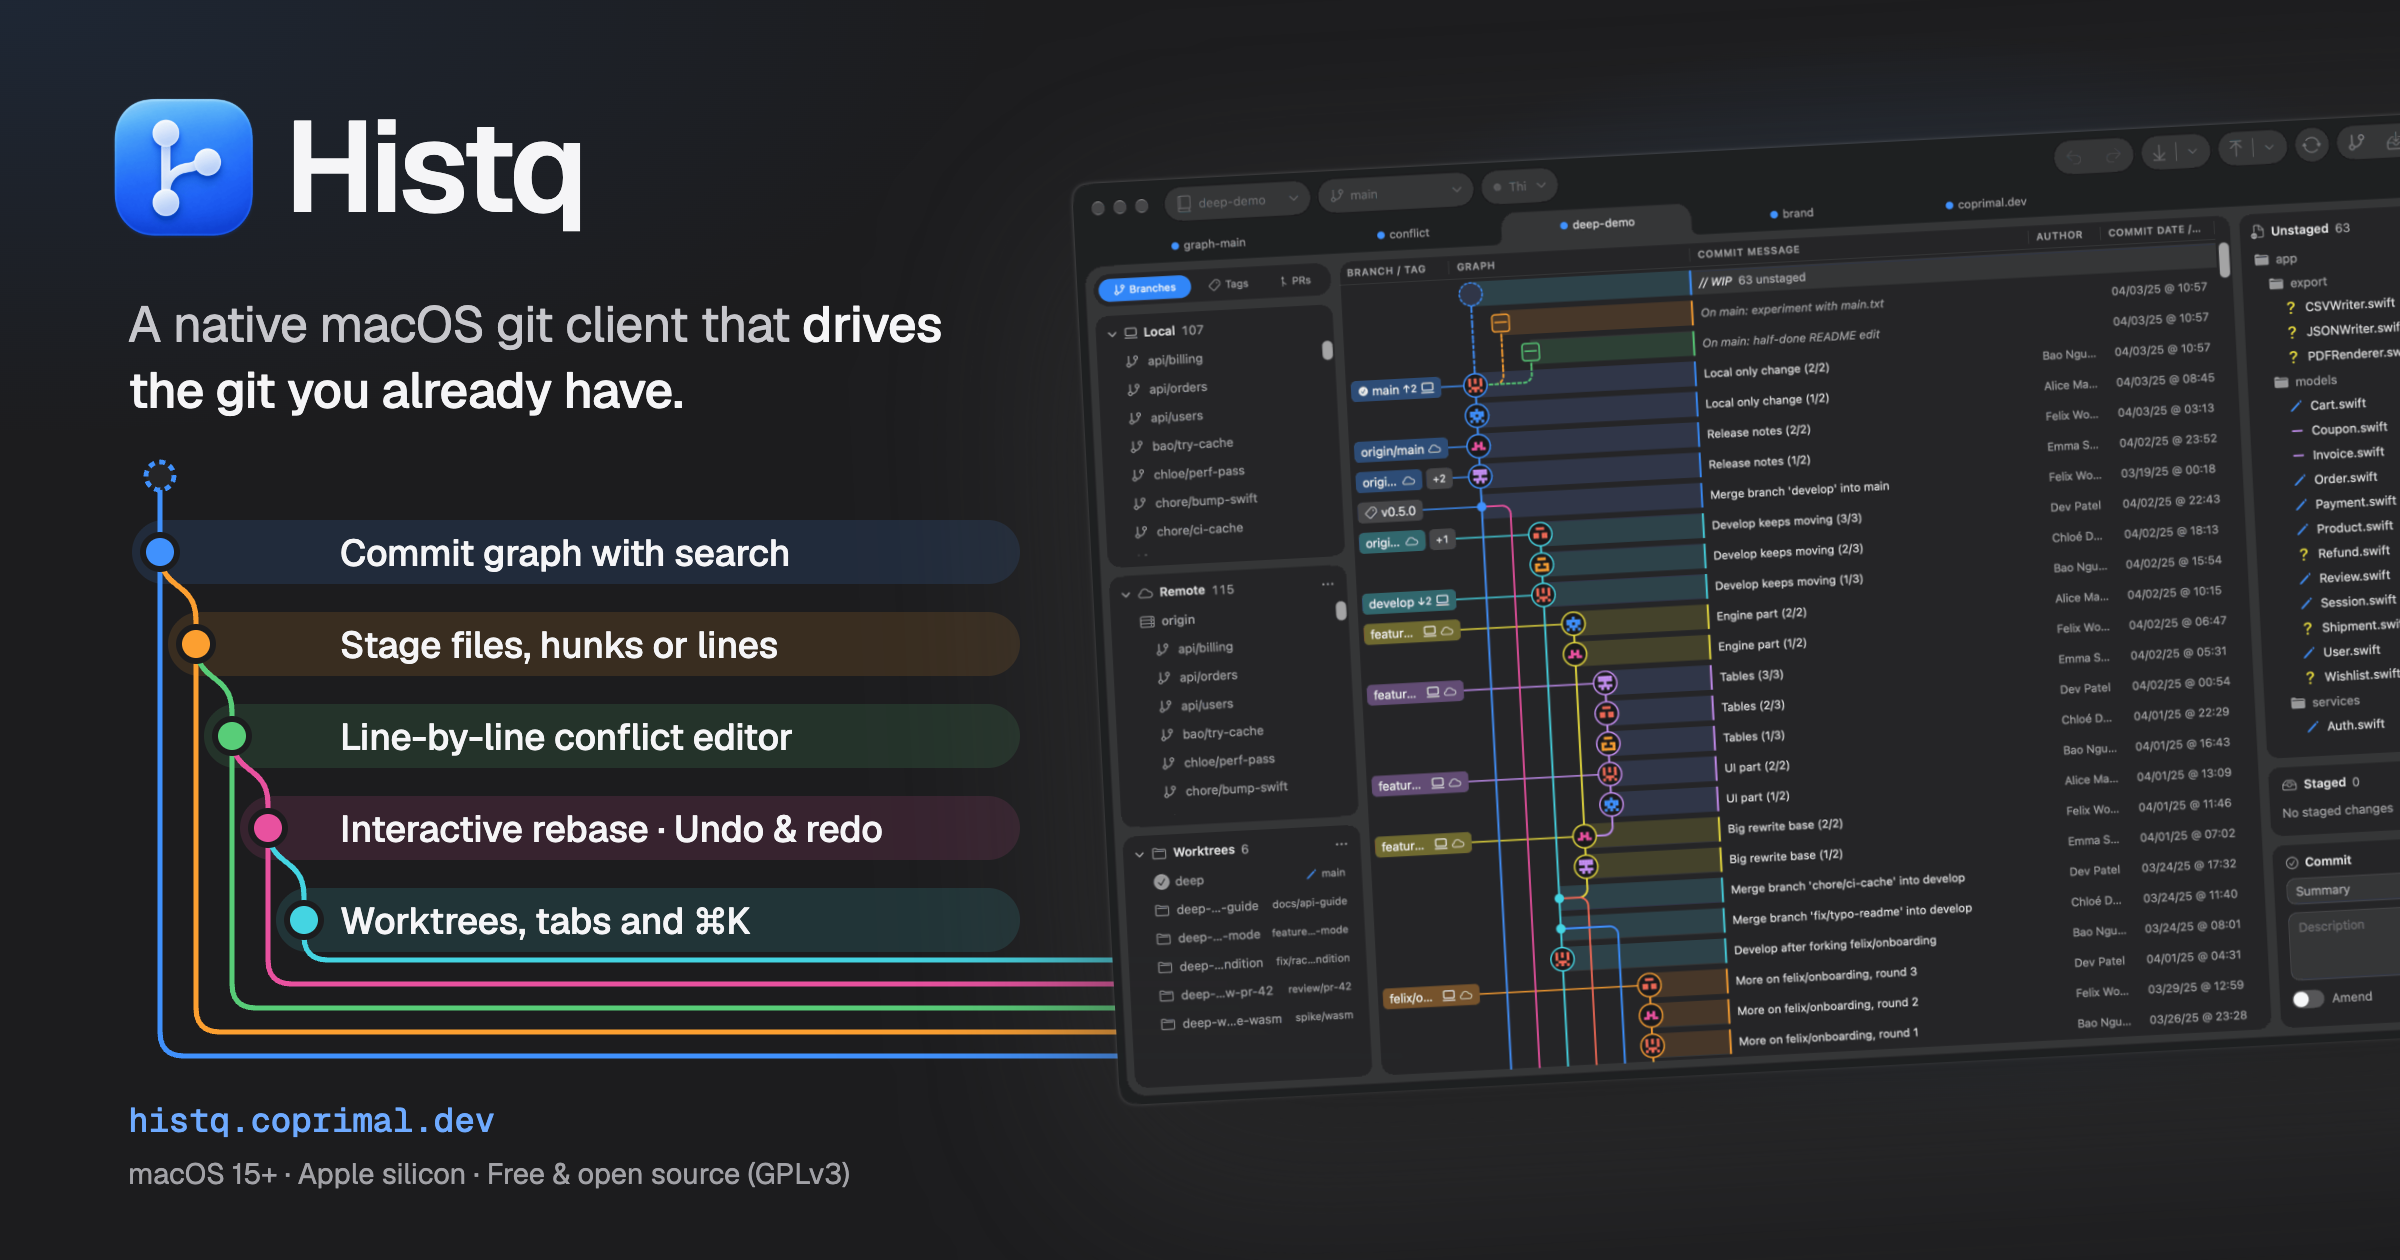
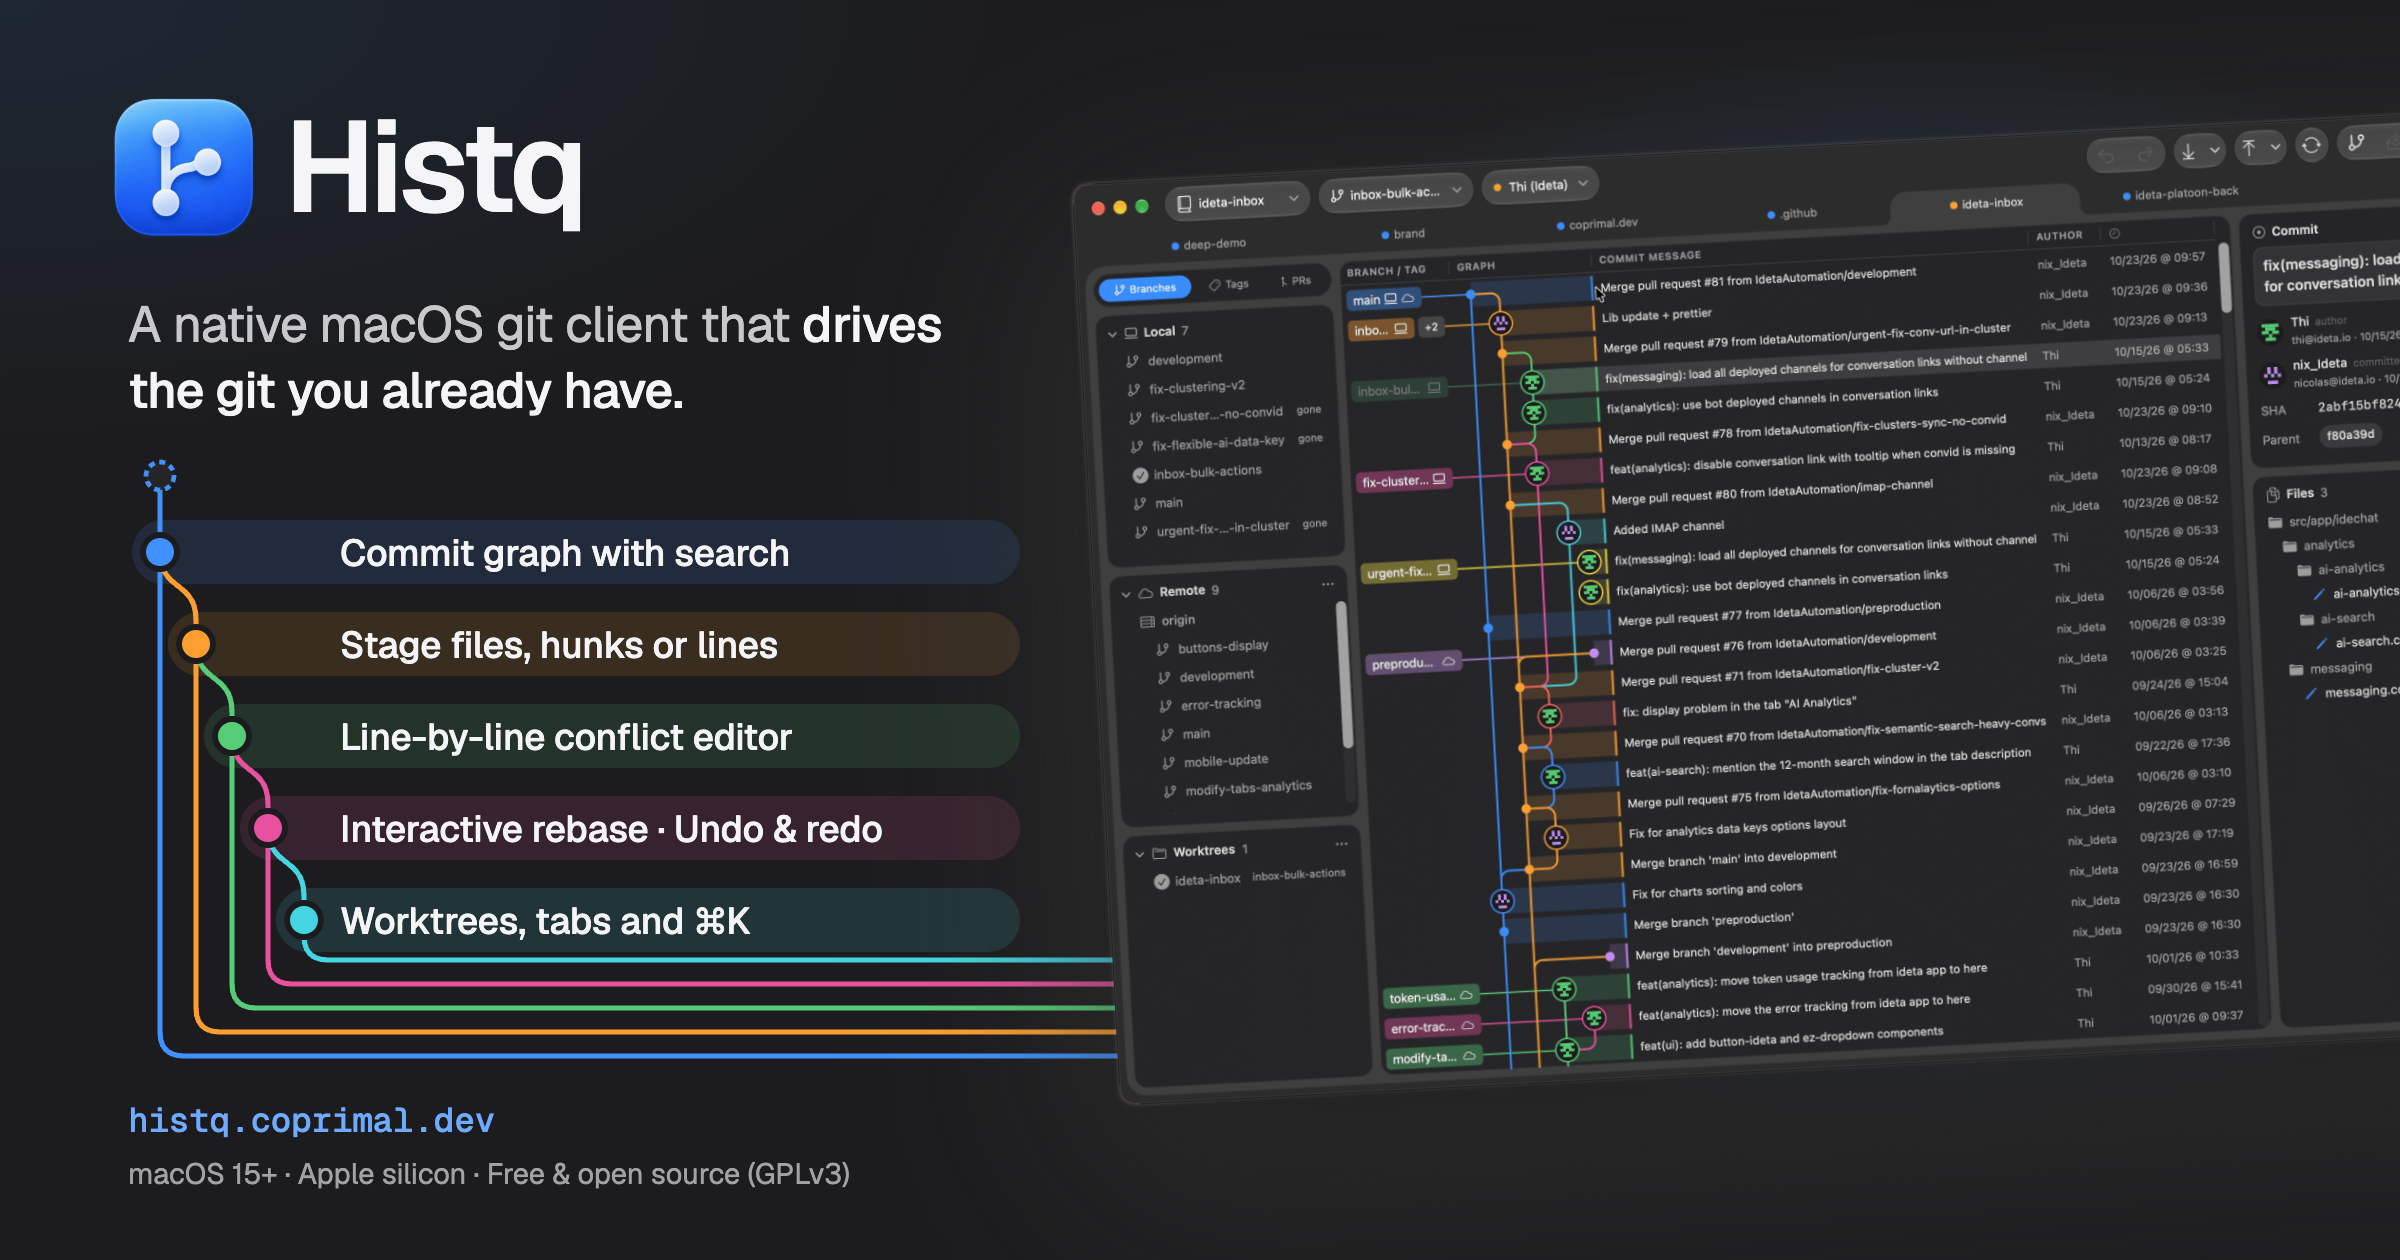
docs: use the new screenshot in README, website and poster

diff --git a/website/index.html b/website/index.html
@@ -93,7 +93,7 @@
           <img
             class="poster"
             src="poster.png"
-            alt="Histq window: commit graph with colored branch lanes and labels, branch and worktree sidebar, unstaged changes and the commit form"
+            alt="Histq window: commit graph with colored branch lanes and labels, branch, remote and worktree sidebar, and the selected commit&#x27;s details and changed files"
             width="1600"
             height="970"
             loading="eager"

diff --git a/README.md b/README.md
@@ -12,7 +12,7 @@
 
 [Website](https://histq.coprimal.dev) · [Docs](https://histq.coprimal.dev/docs.html) · [Download](https://github.com/dinhanhthi/Histq/releases/latest) · [Changelog](CHANGELOG.md)
 
-<img src="assets/screenshot.png" alt="Histq window: commit graph, branch and worktree sidebar, unstaged changes and commit form">
+<img src="assets/screenshot.png" alt="Histq window: commit graph, branch, remote and worktree sidebar, and the selected commit's details and changed files">
 
 </div>
 
